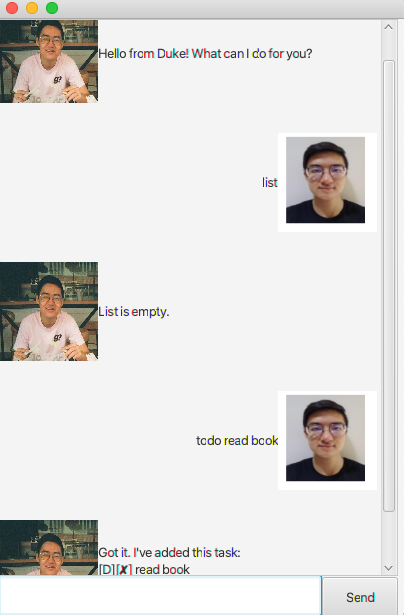
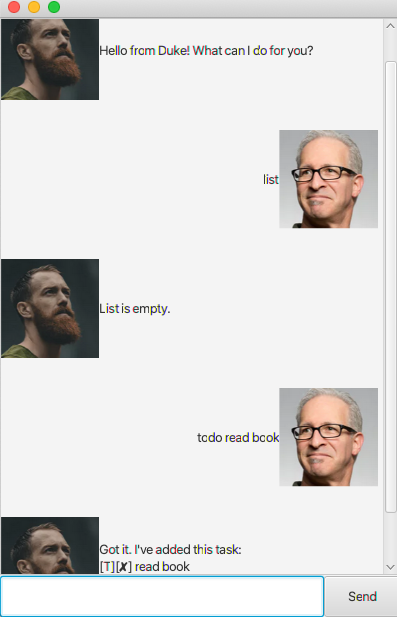
Change pictures

diff --git a/src/main/java/duke/MainWindow.java b/src/main/java/duke/MainWindow.java
@@ -8,8 +8,6 @@ import javafx.scene.image.Image;
 import javafx.scene.layout.AnchorPane;
 import javafx.scene.layout.VBox;
 
-import java.io.FileNotFoundException;
-
 /**
  * Controller for MainWindow. Provides the layout for the other controls.
  */
@@ -25,8 +23,8 @@ public class MainWindow extends AnchorPane {
 
     private Duke duke;
 
-    private Image userImage = new Image(this.getClass().getResourceAsStream("/images/ethan.png"));
-    private Image dukeImage = new Image(this.getClass().getResourceAsStream("/images/anotherEthan.png"));
+    private Image userImage = new Image(this.getClass().getResourceAsStream("/images/dukeUser.png"));
+    private Image dukeImage = new Image(this.getClass().getResourceAsStream("/images/dukeBot.png"));
 
     @FXML
     public void initialize() {
@@ -43,7 +41,7 @@ public class MainWindow extends AnchorPane {
      * the dialog container. Clears the user input after processing.
      */
     @FXML
-    private void handleUserInput() throws FileNotFoundException, DukeException {
+    private void handleUserInput() {
         String input = userInput.getText();
         String response = duke.getResponseGui(input);
         dialogContainer.getChildren().addAll(
@@ -54,7 +52,7 @@ public class MainWindow extends AnchorPane {
     }
 
     private void printIntro() {
-        DialogBox intro = DialogBox.getDukeDialog("Hello from Duke! What can I do for you?", new Image(this.getClass().getResourceAsStream("/images/anotherEthan.png")));
+        DialogBox intro = DialogBox.getDukeDialog("Hello from Duke! What can I do for you?", new Image(this.getClass().getResourceAsStream("/images/dukeBot.png")));
         dialogContainer.getChildren().addAll(intro);
     }
 }
